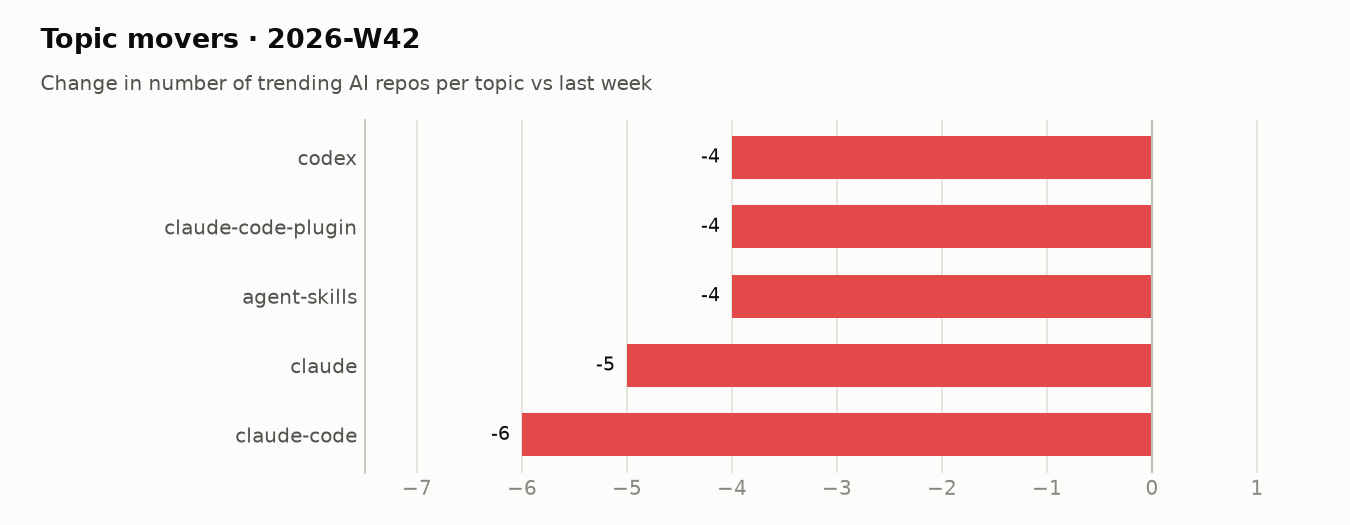
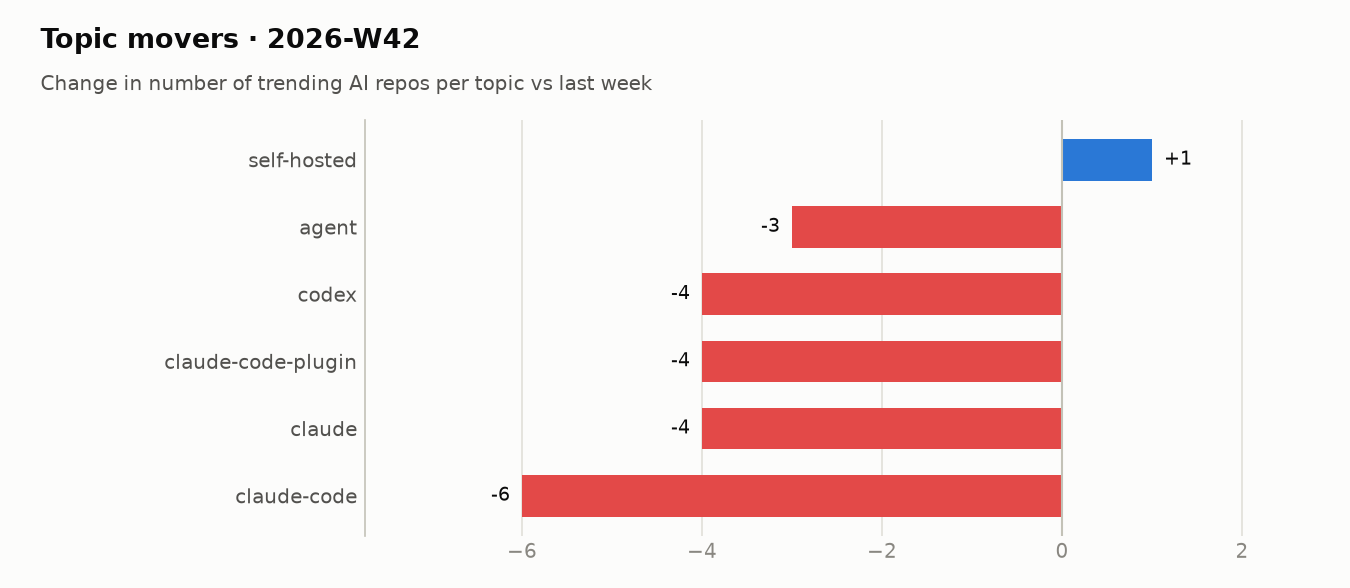
trending: snapshot 2026-10-15

diff --git a/README.md b/README.md
@@ -7,27 +7,28 @@ Every morning a GitHub Actions workflow reads the GitHub trending page, looks up
 ## Live view
 
 <!-- TRACKER_START -->
-### 🔥 AI repos trending today · 2026-10-14
+### 🔥 AI repos trending today · 2026-10-15
 
-7 of 9 trending repositories are AI-related.
+7 of 12 trending repositories are AI-related.
 
 | # | Repo | Language | ⭐ today | ⭐ total | Topics |
 |--:|---|---|--:|--:|---|
-| 1 | [morluto/rea](https://github.com/morluto/rea)<br><sub>Star morluto / rea Reverse engineer anything with agents, from app behavior down to native…</sub> | TypeScript | 54,679 | 219,289 | `agent-skills` `ai-agents` `binary-analysis` `claude-code` |
-| 3 | [debpalash/VoiceStudio](https://github.com/debpalash/VoiceStudio)<br><sub>Star debpalash / VoiceStudio VoiceStudio is the open-source, fully-local ElevenLabs altern…</sub> | Python | 1,748 | 64,276 | `ai` `audiobook` `cuda` `dubbing` |
-| 4 | [mksglu/context-mode](https://github.com/mksglu/context-mode)<br><sub>Sponsor Star mksglu / context-mode Context window optimization for AI coding agents. Sandb…</sub> | TypeScript | 969 | 28,522 | `antigravity` `claude` `claude-code` `claude-code-hooks` |
-| 5 | [cathrynlavery/diagram-design](https://github.com/cathrynlavery/diagram-design)<br><sub>Sponsor Star cathrynlavery / diagram-design Editorial diagram design for Claude Code, Code…</sub> | HTML | 1,815 | 54,665 | `agent-skills` `claude-code` `codex` `data-visualization` |
-| 6 | [vercel-labs/skills](https://github.com/vercel-labs/skills)<br><sub>Star vercel-labs / skills The open agent skills tool - npx skills</sub> | TypeScript | 190 | 34,729 | – |
-| 7 | [lyogavin/airllm](https://github.com/lyogavin/airllm)<br><sub>Sponsor Star lyogavin / airllm AirLLM 2.8T LLM inference with single 4GB GPU</sub> | Jupyter Notebook | 1,001 | 38,499 | `chinese-llm` `chinese-nlp` `finetune` `generative-ai` |
-| 8 | [storytold/artcraft](https://github.com/storytold/artcraft)<br><sub>Star storytold / artcraft ArtCraft is an intentional crafting engine for artists, designer…</sub> | Rust | 4,081 | 26,521 | `3d-graphics` `ai` `aivideo` `filmmaking` |
+| 1 | [morluto/rea](https://github.com/morluto/rea)<br><sub>Star morluto / rea Reverse engineer anything with agents, from app behavior down to native…</sub> | TypeScript | 41,034 | 251,853 | `agent-skills` `ai-agents` `binary-analysis` `claude-code` |
+| 2 | [debpalash/VoiceStudio](https://github.com/debpalash/VoiceStudio)<br><sub>Star debpalash / VoiceStudio VoiceStudio is the open-source, fully-local ElevenLabs altern…</sub> | Python | 3,538 | 67,236 | `ai` `audiobook` `cuda` `dubbing` |
+| 3 | [mksglu/context-mode](https://github.com/mksglu/context-mode)<br><sub>Sponsor Star mksglu / context-mode Context window optimization for AI coding agents. Sandb…</sub> | TypeScript | 947 | 29,380 | `antigravity` `claude` `claude-code` `claude-code-hooks` |
+| 5 | [K-Dense-AI/scientific-agent-skills](https://github.com/K-Dense-AI/scientific-agent-skills)<br><sub>Star K-Dense-AI / scientific-agent-skills Turn any AI agent into an AI Scientist. The #1 A…</sub> | Python | 163 | 49,676 | `agent-skills` `ai-scientist` `bioinformatics` `chemoinformatics` |
+| 6 | [HKUDS/CLI-Anything](https://github.com/HKUDS/CLI-Anything)<br><sub>Star HKUDS / CLI-Anything "CLI-Anything: Making ALL Software Agent-Native" -- CLI-Hub: htt…</sub> | Python | 103 | 52,755 | – |
+| 7 | [ifixai-ai/iFixAi](https://github.com/ifixai-ai/iFixAi)<br><sub>Star ifixai-ai / iFixAi Independent Auditing of AI Agents. Run by human or the agent itsel…</sub> | Python | 2,109 | 27,864 | `agent-evaluation` `ai` `ai-alignment` `ai-evaluation` |
+| 8 | [vxcontrol/pentagi](https://github.com/vxcontrol/pentagi)<br><sub>Star vxcontrol / pentagi Fully autonomous AI Agents system capable of performing complex p…</sub> | Go | 1,025 | 29,961 | `ai-agents` `ai-security-tool` `anthropic` `autonomous-agents` |
 
 ### 📊 This week so far · 2026-W42
 
 #### Summary
 
-- **11** distinct AI repos trended over 3 day(s) (last week: 34)
-- AI share of all trending slots: **77%** (+2 pts vs last week)
-- Dominant language: **Python** (36% of AI repos)
+- **15** distinct AI repos trended over 4 day(s) (last week: 34)
+- AI share of all trending slots: **71%** (-4 pts vs last week)
+- Dominant language: **Python** (47% of AI repos)
+- Rising topics: `self-hosted` (+1)
 
 #### Languages
 
@@ -35,12 +36,13 @@ Every morning a GitHub Actions workflow reads the GitHub trending page, looks up
 
 | Language | Repos | Share | Last week |
 |---|--:|--:|--:|
-| Python | 4 | 36% | 10 |
-| TypeScript | 3 | 27% | 5 |
-| Rust | 1 | 9% | 2 |
-| HTML | 1 | 9% | 1 |
-| Jupyter Notebook | 1 | 9% | 0 |
-| C++ | 1 | 9% | 1 |
+| Python | 7 | 47% | 10 |
+| TypeScript | 3 | 20% | 5 |
+| Rust | 1 | 7% | 2 |
+| HTML | 1 | 7% | 1 |
+| Jupyter Notebook | 1 | 7% | 0 |
+| C++ | 1 | 7% | 1 |
+| Go | 1 | 7% | 1 |
 
 #### Topics
 
@@ -48,37 +50,37 @@ Every morning a GitHub Actions workflow reads the GitHub trending page, looks up
 
 | Topic | Repos this week |
 |---|--:|
-| `claude-code` | 3 |
 | `mcp` | 3 |
+| `agent-skills` | 3 |
 | `codex` | 3 |
-| `agent-skills` | 2 |
-| `developer-tools` | 1 |
-| `reverse-engineering` | 1 |
-| `ctf` | 1 |
+| `claude-code` | 3 |
+| `ai-agents` | 2 |
+| `cli` | 2 |
+| `claude` | 2 |
+| `openai` | 2 |
+| `self-hosted` | 2 |
 | `dsh-plugin` | 1 |
-| `static-analysis` | 1 |
-| `ghidra` | 1 |
-| `hopper` | 1 |
-| `model-context-protocol` | 1 |
+| `cordis` | 1 |
+| `decompiler` | 1 |
 
 #### Most persistent AI repos
 
 | Repo | Language | Days trending | Stars gained | Total stars |
 |---|---|--:|--:|--:|
-| [morluto/rea](https://github.com/morluto/rea) | TypeScript | 3 | 125,605 | 219,289 |
+| [morluto/rea](https://github.com/morluto/rea) | TypeScript | 4 | 166,639 | 251,853 |
 | [storytold/artcraft](https://github.com/storytold/artcraft) | Rust | 3 | 11,133 | 26,521 |
 | [cathrynlavery/diagram-design](https://github.com/cathrynlavery/diagram-design) | HTML | 3 | 4,979 | 54,665 |
 | [lyogavin/airllm](https://github.com/lyogavin/airllm) | Jupyter Notebook | 3 | 2,428 | 38,499 |
-| [mksglu/context-mode](https://github.com/mksglu/context-mode) | TypeScript | 2 | 1,215 | 28,522 |
-| [debpalash/VoiceStudio](https://github.com/debpalash/VoiceStudio) | Python | 1 | 1,748 | 64,276 |
+| [mksglu/context-mode](https://github.com/mksglu/context-mode) | TypeScript | 3 | 2,162 | 29,380 |
+| [debpalash/VoiceStudio](https://github.com/debpalash/VoiceStudio) | Python | 2 | 5,286 | 67,236 |
+| [ifixai-ai/iFixAi](https://github.com/ifixai-ai/iFixAi) | Python | 1 | 2,109 | 27,864 |
+| [vxcontrol/pentagi](https://github.com/vxcontrol/pentagi) | Go | 1 | 1,025 | 29,961 |
 | [Alishahryar1/free-claude-code](https://github.com/Alishahryar1/free-claude-code) | Python | 1 | 626 | 59,682 |
 | [pytorch/pytorch](https://github.com/pytorch/pytorch) | Python | 1 | 315 | 104,680 |
-| [vercel-labs/skills](https://github.com/vercel-labs/skills) | TypeScript | 1 | 190 | 34,729 |
-| [open-webui/open-webui](https://github.com/open-webui/open-webui) | Python | 1 | 157 | 155,435 |
 
 ➡ Last full weekly analysis: [2026-W41](reports/weekly/2026-W41.md) · [all reports](reports/weekly)
 
-_Tracking since 2026-10-01 · 14 day(s) of data · [raw data](data/trending.csv)_
+_Tracking since 2026-10-01 · 15 day(s) of data · [raw data](data/trending.csv)_
 <!-- TRACKER_END -->
 
 ## How it works
